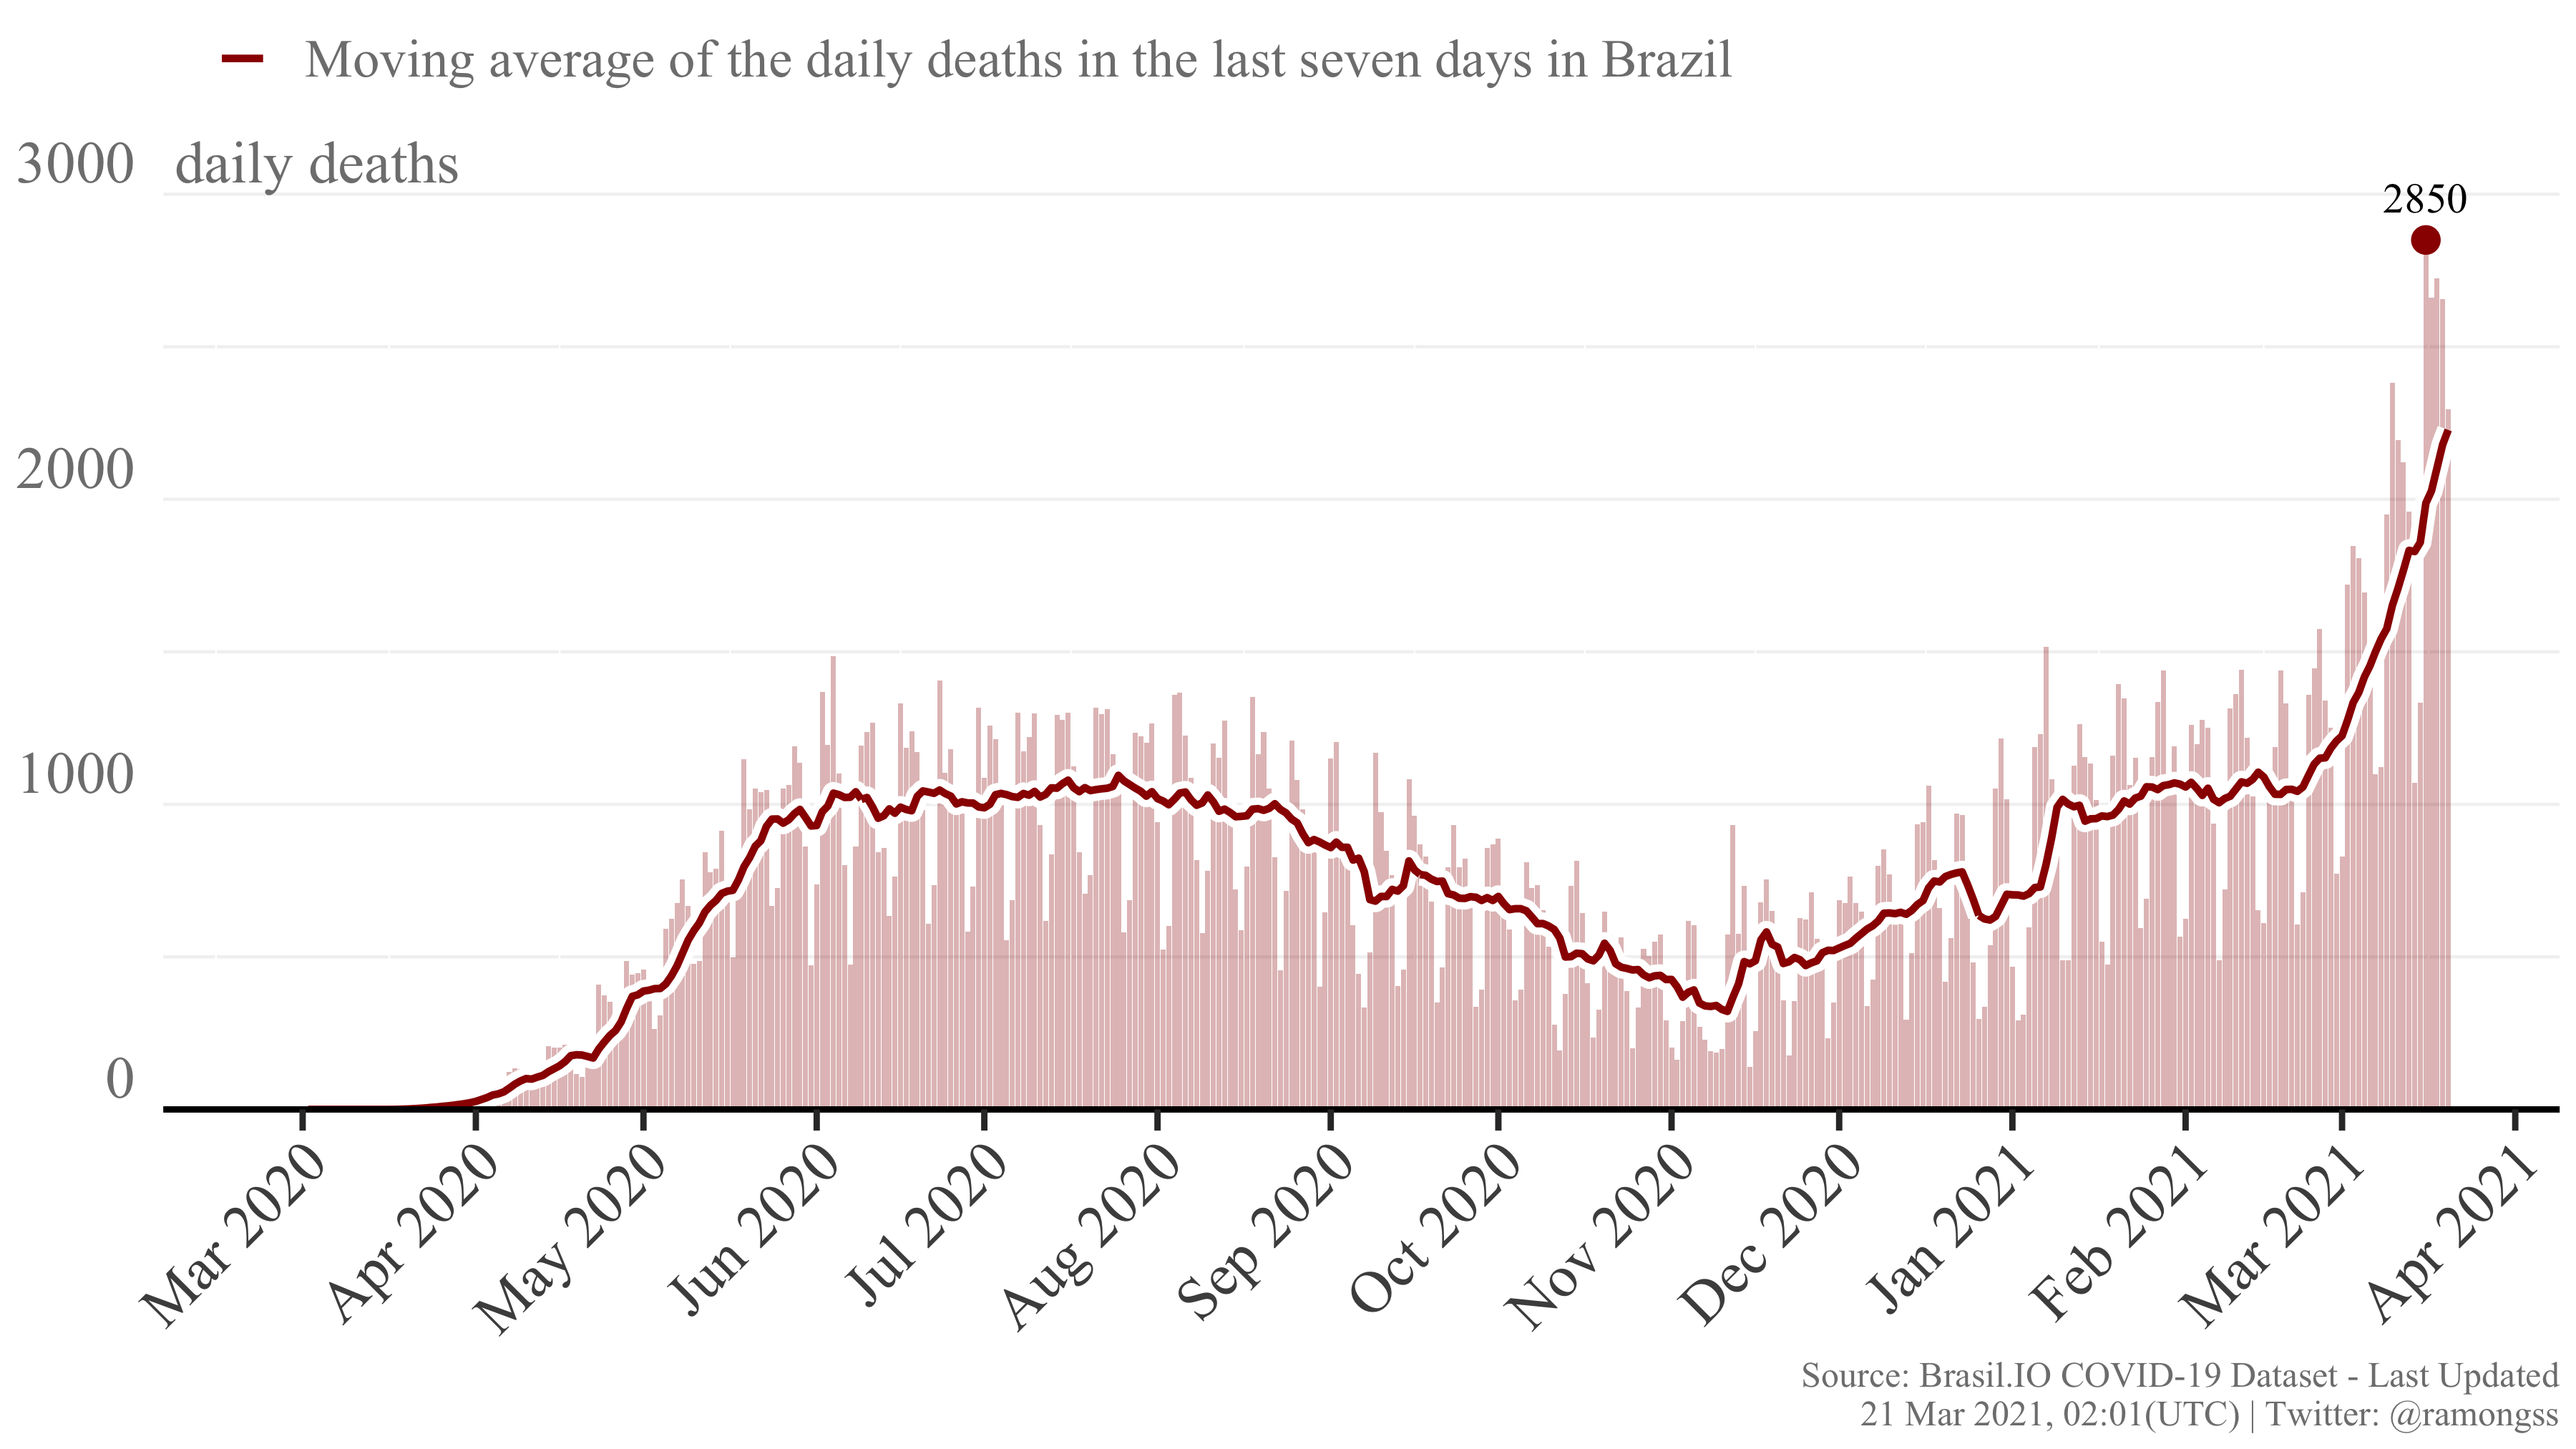
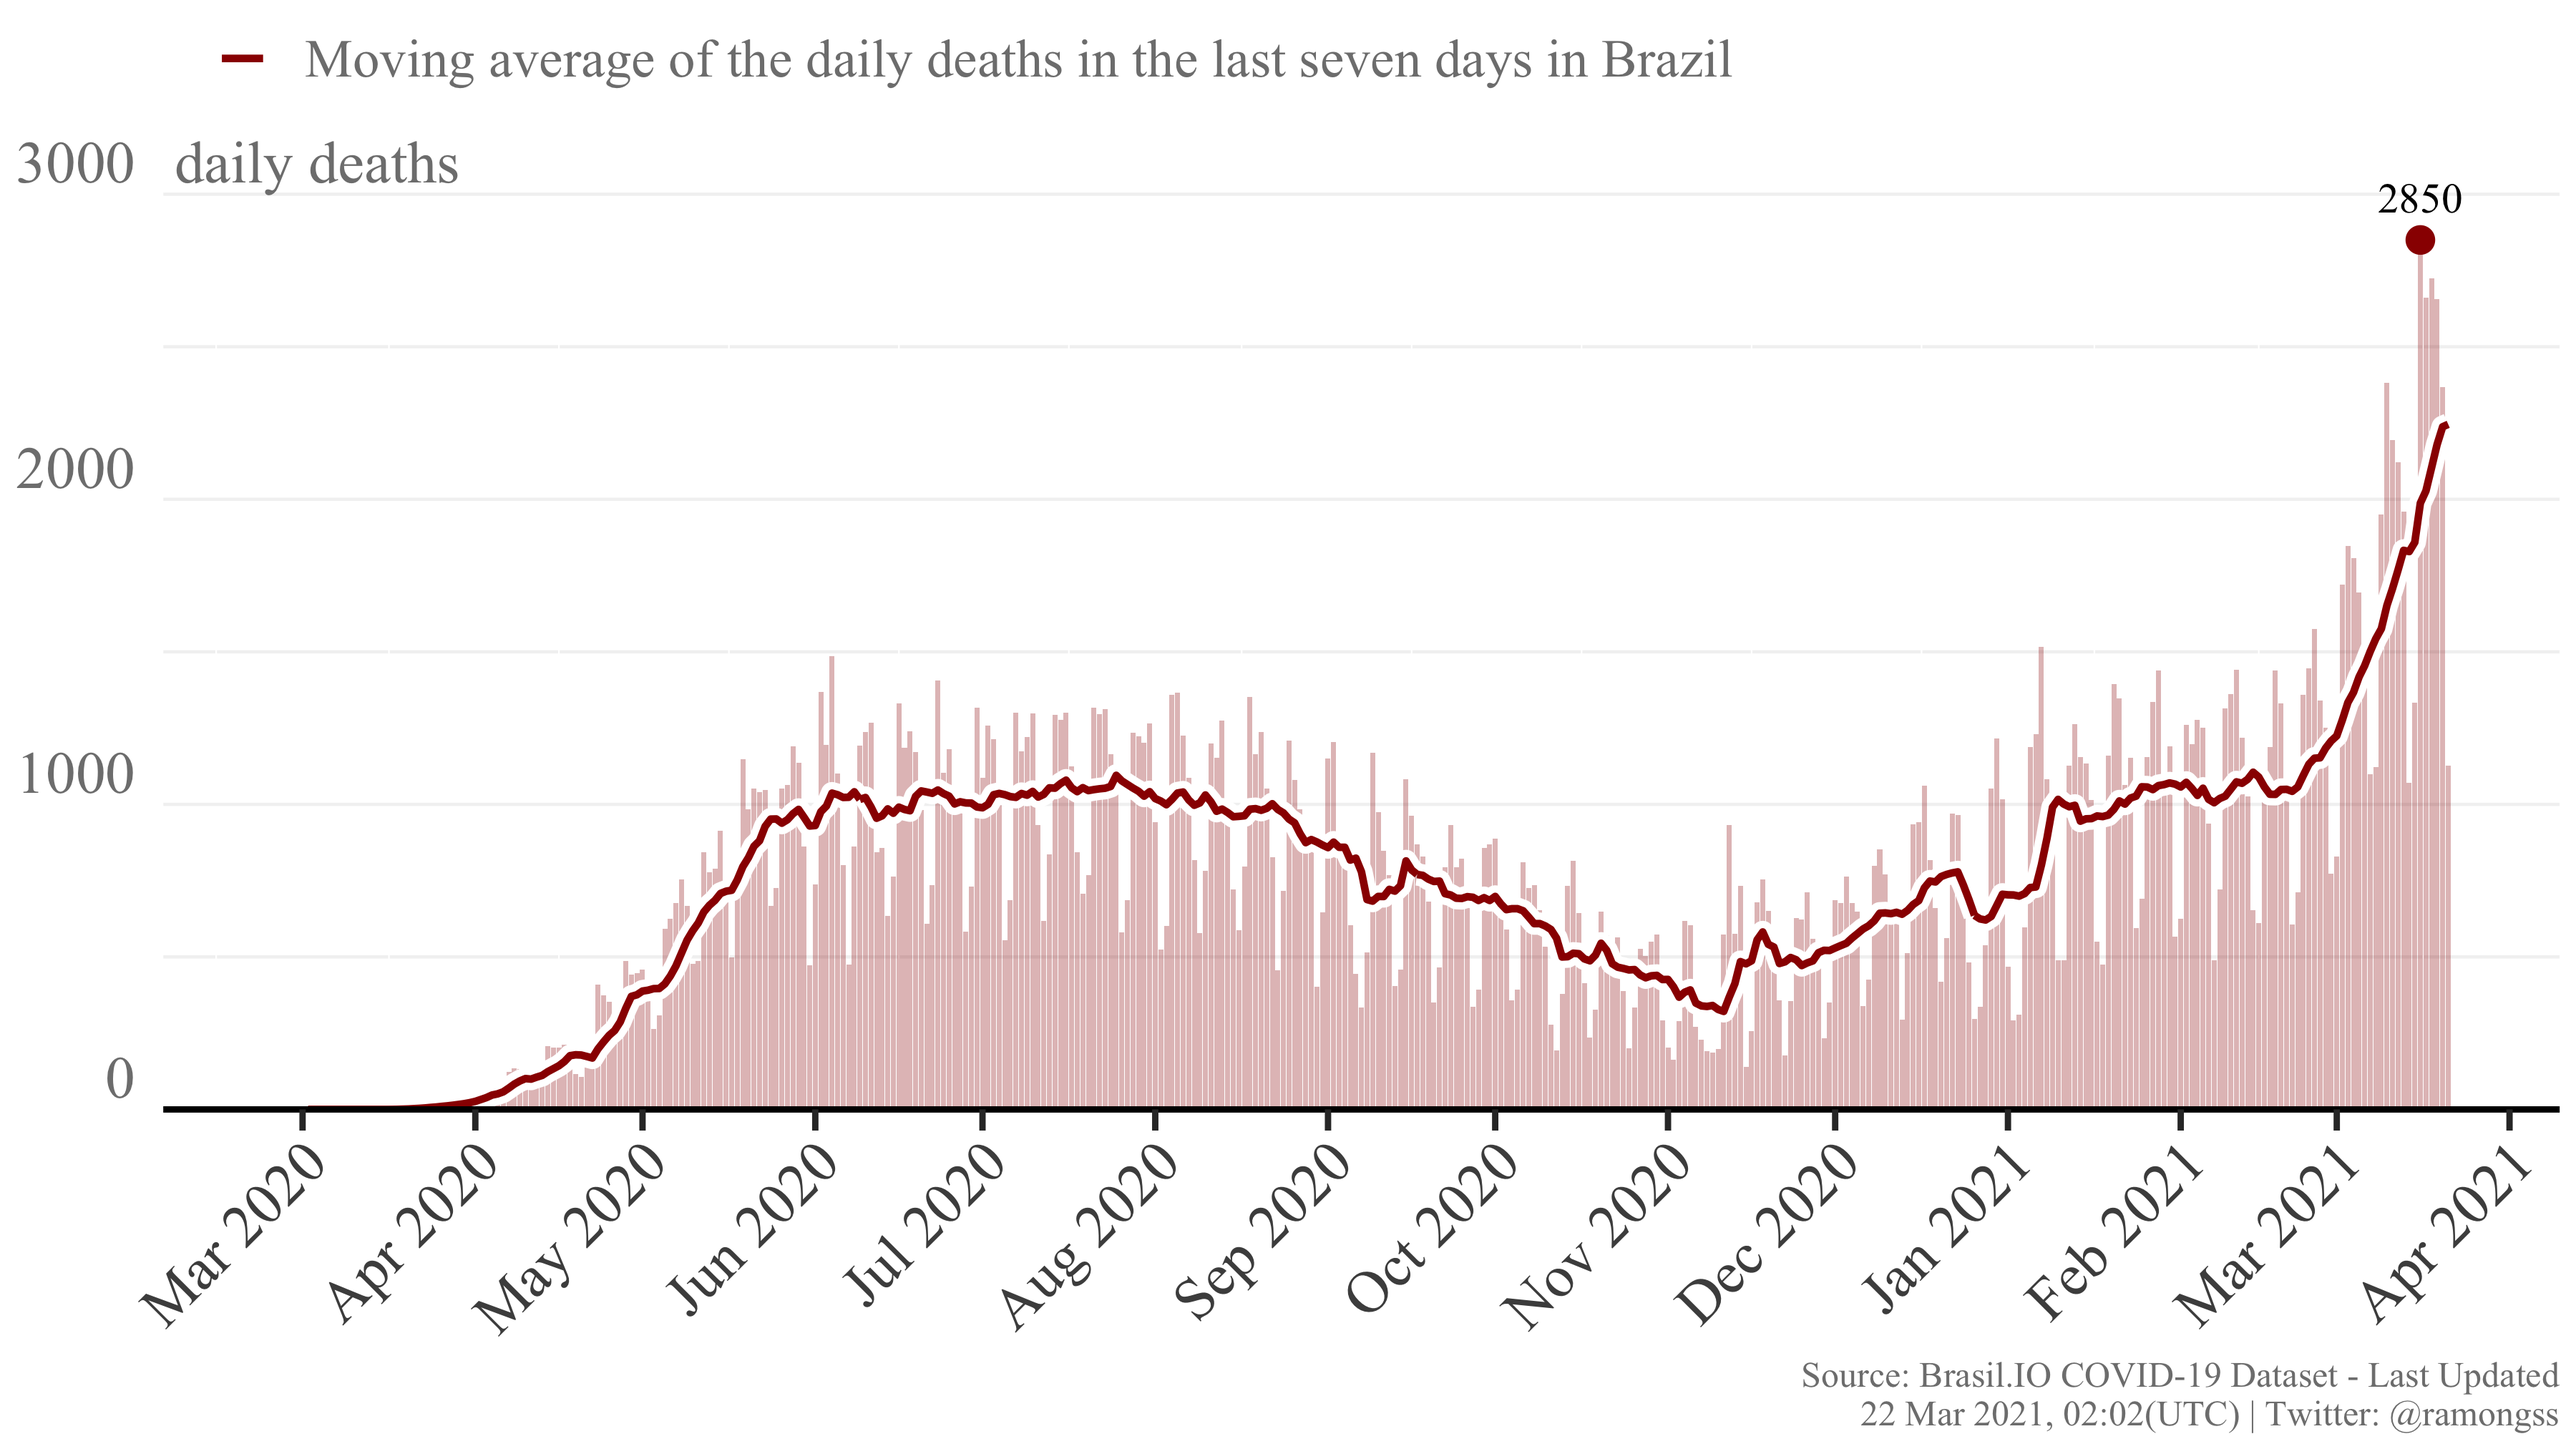
Re-build README.Rmd

diff --git a/README.md b/README.md
@@ -27,7 +27,7 @@ download_brasilio_table <- function(dataset = "covid19", table_name){
 
 ## COVID-19 Confirmed cases
 
-Currently, Brazil has a total of **11,956,917** confirmed cases at **20
+Currently, Brazil has a total of **12,002,173** confirmed cases at **21
 Mar, 2021**. The daily maximum incidence was **89,769** confirmed cases
 at **07 Jan, 2021**. Here follows the Figure showing the confirmed case
 incidence as the bars, and the line as the moving average of the last 7
@@ -37,7 +37,7 @@ days.
 
 ## COVID-19 Deaths
 
-Currently, Brazil has a total of **293,004** deaths at **20 Mar, 2021**.
+Currently, Brazil has a total of **294,203** deaths at **21 Mar, 2021**.
 The daily maximum deaths incidence was **2,850** deaths at **16 Mar,
 2021**. Here follows the Figure showing the deaths incidence as the
 bars, and the line as the moving average of the last 7 days.
@@ -48,4 +48,4 @@ bars, and the line as the moving average of the last 7 days.
 
 This page is daily updated automatically using Github Actions.
 
-*Last update: 21 Mar 2021, 02:01 (UTC).*
+*Last update: 22 Mar 2021, 02:02 (UTC).*
